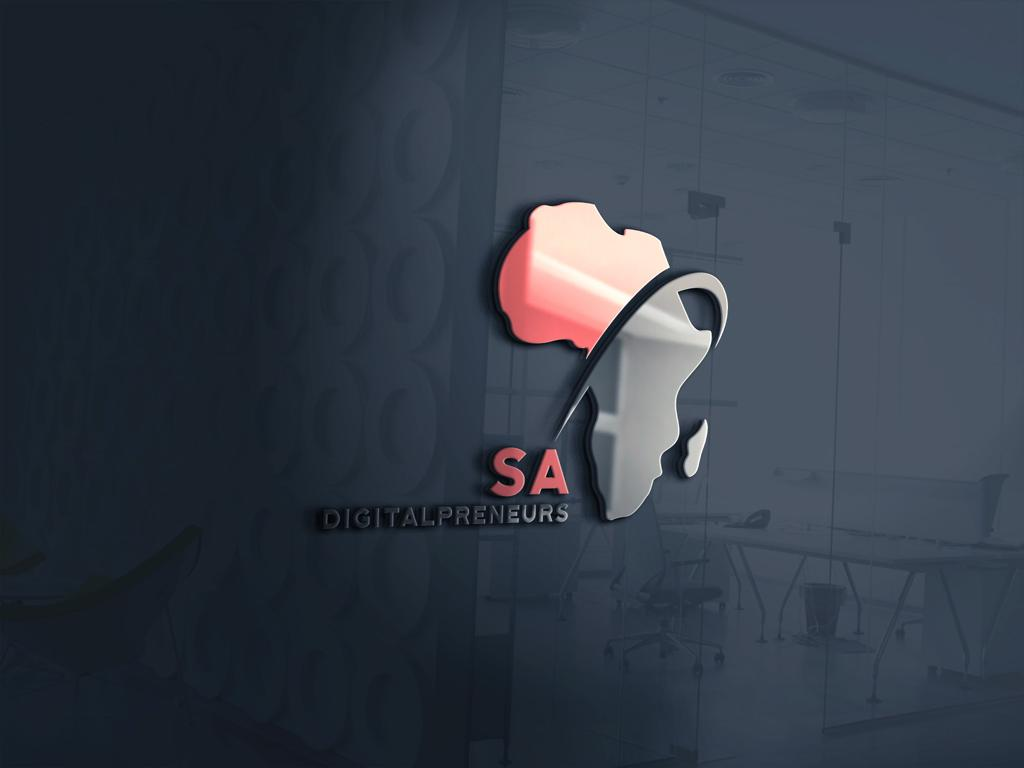
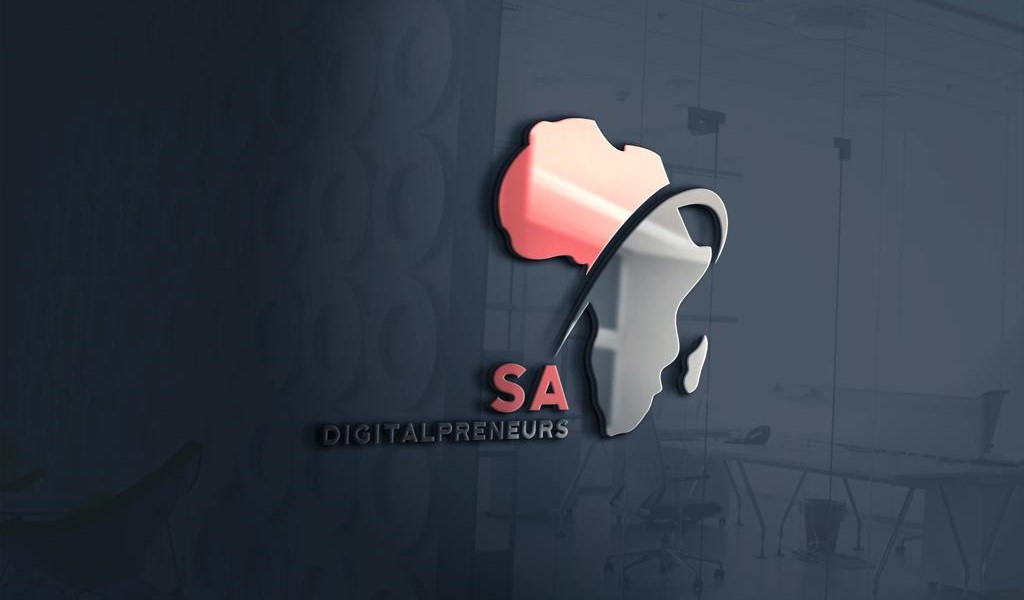
added pictures

Changed region(s): [[0.4688, 0.18, 0.7188, 0.48], [0.2812, 0.51, 0.6875, 0.75], [0.7812, 0.78, 0.8125, 0.81]]

diff --git a/index.html b/index.html
@@ -86,7 +86,7 @@
   </nav>
 
   <!-- ======= Intro Section ======= -->
-  <div id="home" class="intro route bg-image" style="background-image: url(assets/img/main2.png)">
+  <div id="home" class="intro route bg-image" style="background-image: url(assets/img/main4.jpeg)">
     <div class="overlay-itro"></div>
     <div class="intro-content display-table">
       <div class="table-cell">
@@ -398,9 +398,9 @@
 
                           <div class="col-lg-4 col-md-6 portfolio-item filter-wellness">
                             <div class="work-box">
-                              <a href="assets/img/brent1.jpg" data-gall="portfolioGallery" class="venobox">
+                              <a href="assets/img/collagen.jpeg" data-gall="portfolioGallery" class="venobox">
                                 <div class="work-img">
-                                  <img src="assets/img/brent1.jpg" alt="" class="img-fluid">
+                                  <img src="assets/img/collagen.jpeg" alt="" class="img-fluid">
                                 </div>
                               </a>
                               <div class="work-content">
@@ -473,9 +473,9 @@
 
                           <div class="col-lg-4 col-md-6 portfolio-item filter-wellness">
                             <div class="work-box">
-                              <a href="assets/img/cat1.jpg" data-gall="portfolioGallery" class="venobox">
+                              <a href="assets/img/glo.jpeg" data-gall="portfolioGallery" class="venobox">
                                 <div class="work-img">
-                                  <img src="assets/img/cat1.jpg" alt="" class="img-fluid">
+                                  <img src="assets/img/glo.jpeg" alt="" class="img-fluid">
                                 </div>
                               </a>
                               <div class="work-content">
@@ -498,9 +498,9 @@
 
                           <div class="col-lg-4 col-md-6 portfolio-item filter-beauty">
                             <div class="work-box">
-                              <a href="assets/img/cat1.jpg" data-gall="portfolioGallery" class="venobox">
+                              <a href="assets/img/shampoo.jpeg" data-gall="portfolioGallery" class="venobox">
                                 <div class="work-img">
-                                  <img src="assets/img/cat1.jpg" alt="" class="img-fluid">
+                                  <img src="assets/img/shampoo.jpeg" alt="" class="img-fluid">
                                 </div>
                               </a>
                               <div class="work-content">
@@ -1322,13 +1322,13 @@
                     </ol>
                       <div class="carousel-inner" role="listbox">
                         <div class="carousel-item active">
-                          <img class="d-block w-100" src="assets/img/cat1.jpg" class="img-fluid" alt="">
+                          <img class="d-block w-100" src="assets/img/jmp.jpeg" class="img-fluid" alt="">
                         </div>
                         <div class="carousel-item ">
-                          <img class="d-block w-100" src="assets/img/cat2.jpg" class="img-fluid" alt="">
+                          <img class="d-block w-100" src="assets/img/jmp2.jpeg" class="img-fluid" alt="">
                         </div>
                         <div class="carousel-item ">
-                          <img class="d-block w-100" src="assets/img/cat3.jpg" class="img-fluid" alt="">
+                          <img class="d-block w-100" src="assets/img/lip.jpeg" class="img-fluid" alt="">
                         </div>
                       </div>
                     <a class="carousel-control-prev" href="#carouselExampleIndicators-two" role="button" data-slide="prev">
